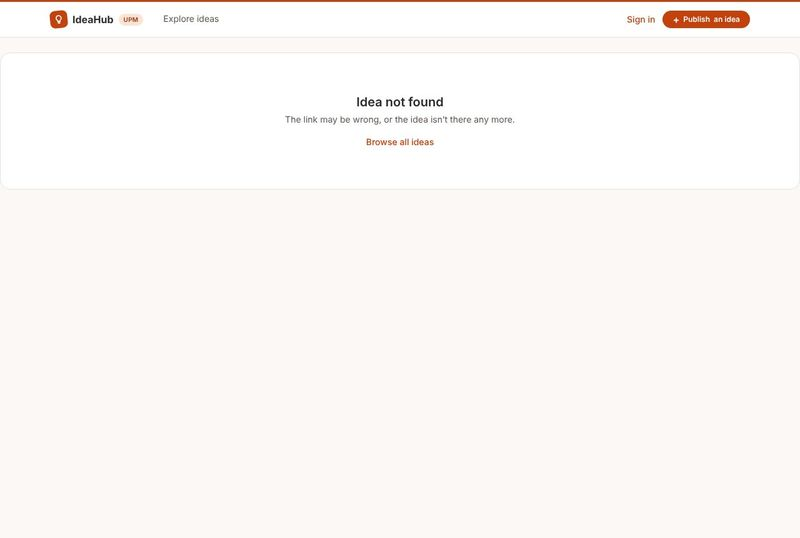
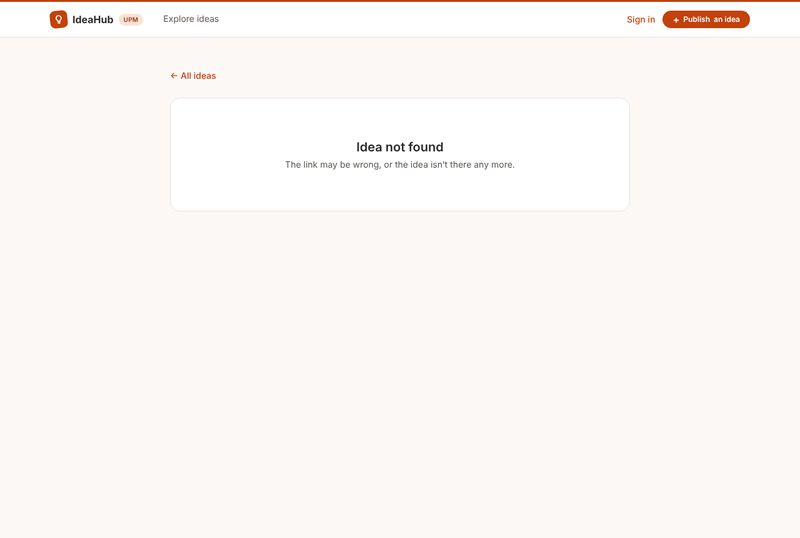
IH-11 center the idea not-found page
notFound() replaces the whole page, not just the Suspense part, so the
not-found card lost the page's <main> wrapper and stretched edge to edge.
It now brings its own wrapper and the "All ideas" link.

Changed region(s): [[0.3438, 0.1784, 0.6562, 0.3271], [0.2188, 0.119, 0.2812, 0.1487]]

diff --git a/app/ideas/[id]/not-found.tsx b/app/ideas/[id]/not-found.tsx
@@ -1,13 +1,16 @@
 import Link from "next/link";
 
+// Replaces the whole page (not just the Suspense part), so it brings its own <main> wrapper.
 export default function IdeaNotFound() {
   return (
-    <div role="status" className="mt-6 rounded-2xl border border-line bg-card px-6 py-16 text-center">
-      <h1 className="font-heading text-xl font-semibold">Idea not found</h1>
-      <p className="mt-1 text-sm text-ink-soft">The link may be wrong, or the idea isn’t there any more.</p>
-      <Link href="/" className="mt-4 inline-block text-sm font-medium text-accent hover:underline">
-        Browse all ideas
+    <main className="mx-auto w-full max-w-3xl flex-1 px-4 py-8 sm:py-12">
+      <Link href="/" className="text-sm font-medium text-accent hover:underline">
+        ← All ideas
       </Link>
-    </div>
+      <div role="status" className="mt-6 rounded-2xl border border-line bg-card px-6 py-16 text-center">
+        <h1 className="font-heading text-xl font-semibold">Idea not found</h1>
+        <p className="mt-1 text-sm text-ink-soft">The link may be wrong, or the idea isn’t there any more.</p>
+      </div>
+    </main>
   );
 }
